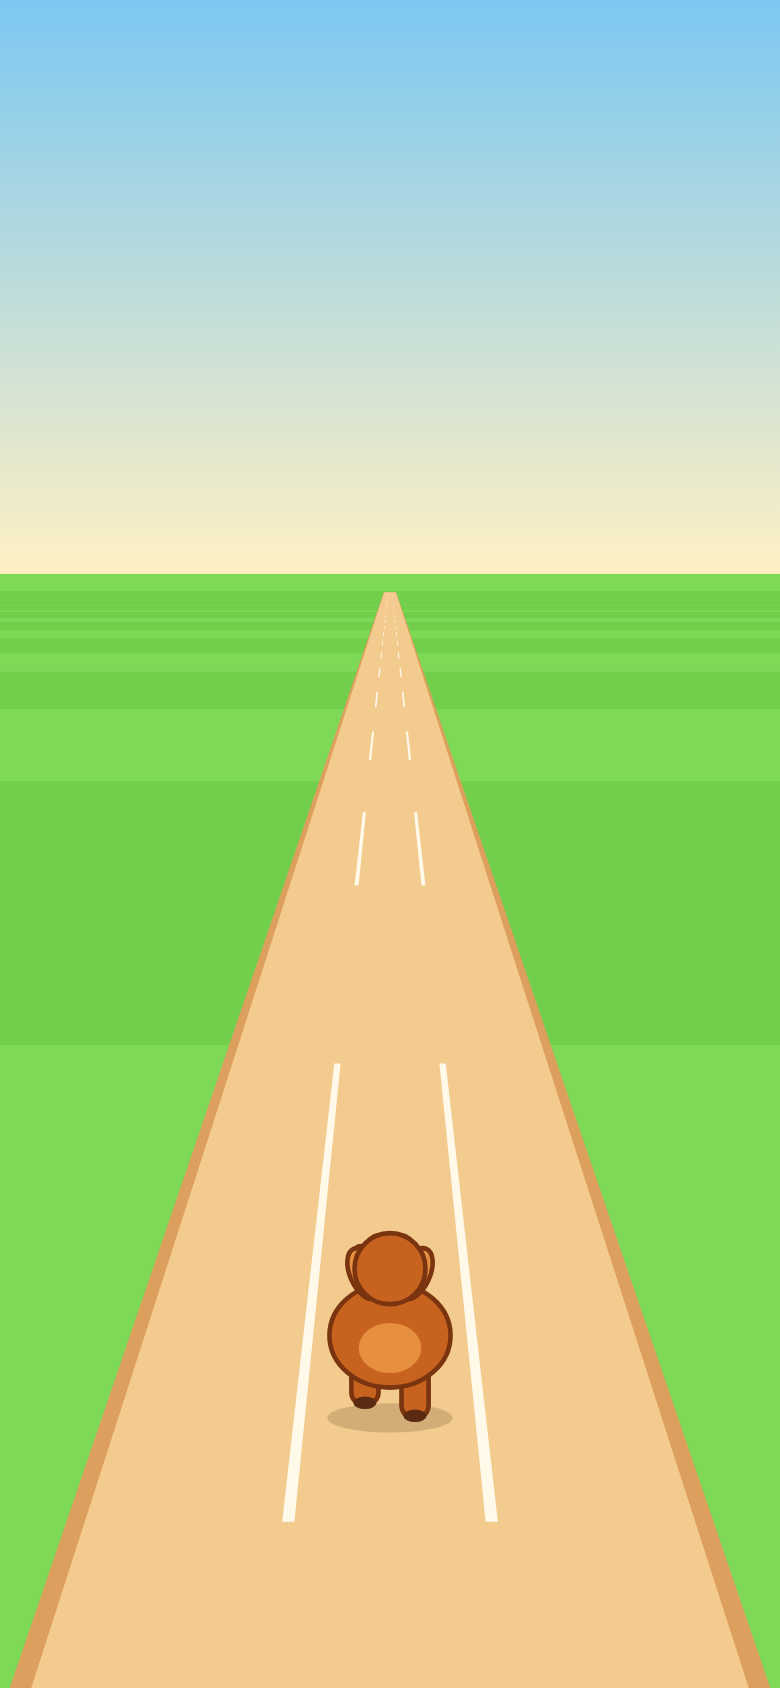
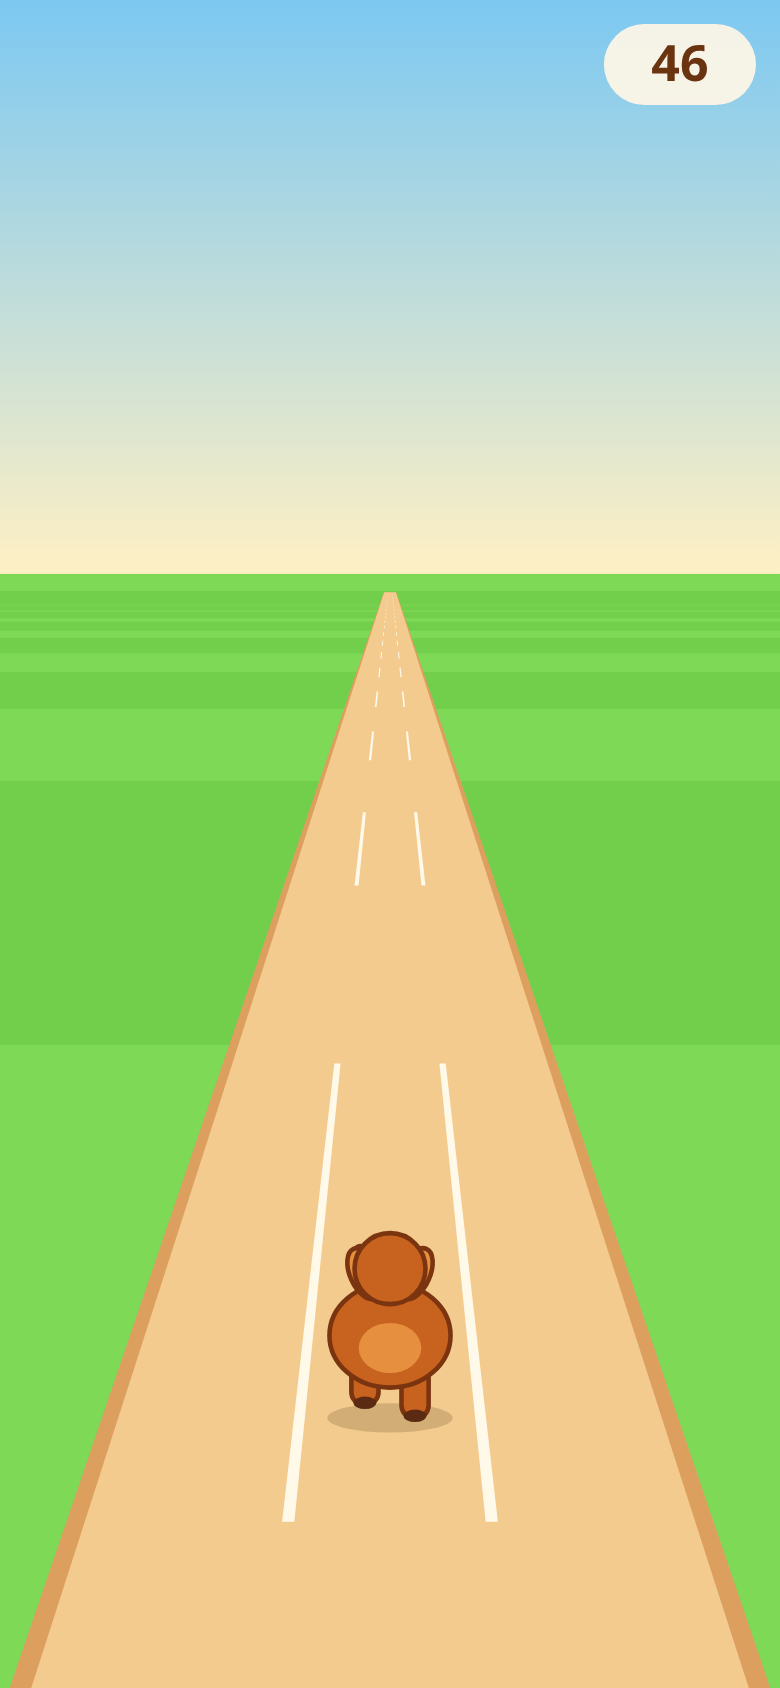
feat: add live score, Title and Game Over screens with instant retry
Canvas-drawn screens: Title (tap to start), score pill in the top-right
corner clear of the notch, Game Over with score, session best, new-best
badge and a large Try Again button. Taps are ignored for 400 ms after
a crash; retry resets the run without reloading. 81/81 checks pass.

Story: production/epics/caius-run/story-004-score-and-screens.md
Design: design/game-brief.md

Claude-Session: https://claude.ai/code/session_018R8R6gKewFaV8M9dz1TTco

Changed region(s): [[0.7692, 0.0, 0.9846, 0.0616]]

diff --git a/src/index.html b/src/index.html
@@ -19,6 +19,10 @@
     -webkit-touch-callout: none;
     -webkit-tap-highlight-color: transparent;
   }
+  #safe {
+    position: fixed; visibility: hidden; pointer-events: none;
+    padding: env(safe-area-inset-top) env(safe-area-inset-right) env(safe-area-inset-bottom) env(safe-area-inset-left);
+  }
   canvas {
     display: block;
     position: fixed;
@@ -32,6 +36,7 @@
 </head>
 <body>
 <canvas id="game"></canvas>
+<div id="safe" aria-hidden="true"></div>
 <script>
 "use strict";
 
@@ -68,6 +73,22 @@ const CONFIG = {
   spawnAhead: 13,           // rows are generated this far ahead (scale ~0.07, >2 s warning at max speed)
   fadeInDepth: 2,           // obstacles fade in over this much depth after spawning
   despawnBehind: -0.3,      // obstacles are removed once this far behind the camera plane
+  // --- score & screens (story 004) ---
+  scorePerZ: 10,            // points per z unit travelled (~25/s at start)
+  titleScrollFactor: 0.4,   // track drifts at this fraction of base speed behind the title
+  gameOverInputDelayMs: 400, // taps ignored this long after Game Over appears
+  buttonMinHeight: 56,      // px, Try Again button
+  font: 'ui-rounded, "SF Pro Rounded", "Nunito", "Varela Round", "Trebuchet MS", system-ui, sans-serif',
+  text: {
+    title: "Caius Run",
+    tapToStart: "Tap to Start",
+    hint: "Swipe \u2190 \u2192 to dodge \u00b7 tap or swipe \u2191 to jump",
+    gameOver: "Game Over",
+    score: "Score",
+    best: "Best",
+    newBest: "New best!",
+    tryAgain: "Try Again",
+  },
   rowGapTimeStart: 1.4,     // seconds between rows at difficulty 0
   rowGapTimeMin: 0.85,      // seconds between rows at difficulty 1
   rowSafetyMargin: 0.2,     // reaction slack added to the slide/jump time a gap must allow
@@ -117,6 +138,13 @@ const CONFIG = {
     coneStripe: "#fff6e8",
     coneBase: "#d85c1a",
     obstacleOutline: "#5b3415",
+    uiPanel: "#fff6e6",
+    uiText: "#6b3410",
+    uiTextSoft: "#a0643a",
+    uiAccent: "#ff8a3d",
+    uiAccentDark: "#d9682a",
+    uiShade: "rgba(70, 35, 10, 0.28)",
+    uiBadge: "#ffd34d",
   },
 };
 
@@ -128,7 +156,7 @@ const canvas = document.getElementById("game");
 const ctx = canvas.getContext("2d");
 
 /** Layout recomputed on every resize; all drawing reads from here. */
-const view = { w: 0, h: 0, dpr: 1, vx: 0, horizonY: 0, laneW: 0 };
+const view = { w: 0, h: 0, dpr: 1, vx: 0, horizonY: 0, laneW: 0, safe: { top: 0, right: 0, bottom: 0, left: 0 } };
 
 /** Run state. `speed` is the single variable that drives all scrolling. Filled by resetRun(). */
 const state = {};
@@ -139,6 +167,7 @@ const debug = {
   speed: parseFloat(params.get("speed")),
   seed: parseInt(params.get("seed"), 10),
   noSpawn: params.has("nospawn"),
+  play: params.has("play"),       // skip the Title screen
 };
 
 /**
@@ -163,6 +192,7 @@ function resetRun(seed) {
     grounded: true,
     jumpT: 0,                   // seconds since take-off
     jumpY: 0,                   // height above ground, in lane widths
+    treatPoints: 0,             // bonus points from treats (story 005)
     seed: s,
     rng: mulberry32(s),
     spawnEnabled: !debug.noSpawn,
@@ -227,6 +257,12 @@ function resize() {
   view.horizonY = h * CONFIG.horizonRatio;
   const roadHalf = Math.min(w * CONFIG.roadHalfWidthRatio, h * CONFIG.roadHalfWidthMaxRatio);
   view.laneW = (roadHalf * 2) / CONFIG.lanes;
+  // Notch / home-bar insets come from CSS env(); read them through a probe element.
+  const cs = getComputedStyle(document.getElementById("safe"));
+  view.safe = {
+    top: parseFloat(cs.paddingTop) || 0, right: parseFloat(cs.paddingRight) || 0,
+    bottom: parseFloat(cs.paddingBottom) || 0, left: parseFloat(cs.paddingLeft) || 0,
+  };
 }
 
 /** Fill a quad given as [x,y] pairs. */
@@ -545,6 +581,8 @@ function onPointerDown(e) {
   touch.t = e.timeStamp;
   touch.fired = false;
   try { canvas.setPointerCapture(e.pointerId); } catch (_) { /* not fatal */ }
+  // On Title / Game Over the touch belongs to the screen; it must not also become a jump.
+  if (ui.screen !== "playing") { touch.fired = true; screenPointer(e.clientX, e.clientY); }
 }
 
 function onPointerMove(e) {
@@ -568,6 +606,10 @@ function onPointerCancel(e) {
 
 function onKeyDown(e) {
   if (e.repeat) return; // holding a key must not spam moves
+  if (ui.screen !== "playing") {
+    if (e.code === "Space" || e.code === "Enter" || e.code === "NumpadEnter") { e.preventDefault(); screenAction(); }
+    return;
+  }
   switch (e.code) {
     case "ArrowLeft": case "KeyA": moveLane(-1); break;
     case "ArrowRight": case "KeyD": moveLane(1); break;
@@ -838,9 +880,178 @@ function updateCollision() {
 
 
 /* ==========================================================================
-   8. SCREENS — story 004 (title, play HUD, game over)
+   8. SCREENS — Title, Play HUD, Game Over (drawn on the canvas)
    ========================================================================== */
-function drawScreens() { /* story 004 */ }
+
+/** Screen state lives outside `state` so a run reset never wipes the session best. */
+const ui = {
+  screen: "title",      // "title" | "playing" | "gameover"
+  best: 0,              // session best (memory only — no save system)
+  lastScore: 0,
+  newBest: false,
+  gameOverAt: 0,        // performance.now() when Game Over appeared
+  buttons: [],          // hit regions drawn this frame: { id, x, y, w, h }
+};
+
+/** Live score: distance travelled plus treat bonus. */
+function currentScore() {
+  return Math.floor(state.scroll * CONFIG.scorePerZ) + state.treatPoints;
+}
+
+/** Start a fresh run (from Title or Try Again). Never reloads the page. */
+function startRun() {
+  resetRun(debug.seed);
+  touch.id = null;
+  ui.screen = "playing";
+}
+
+/** Crash handler: freeze the score and show Game Over. */
+function showGameOver() {
+  ui.lastScore = currentScore();
+  ui.newBest = ui.lastScore > ui.best;
+  ui.best = Math.max(ui.best, ui.lastScore);
+  ui.gameOverAt = performance.now();
+  ui.screen = "gameover";
+}
+
+/** Keyboard or tap anywhere: the screen's main action. */
+function screenAction() {
+  if (ui.screen === "title") startRun();
+  else if (ui.screen === "gameover" && performance.now() - ui.gameOverAt >= CONFIG.gameOverInputDelayMs) startRun();
+}
+
+/** Pointer on a non-play screen: Title starts on any tap, Game Over only via its button. */
+function screenPointer(x, y) {
+  if (ui.screen === "title") { startRun(); return; }
+  if (ui.screen !== "gameover") return;
+  if (performance.now() - ui.gameOverAt < CONFIG.gameOverInputDelayMs) return;
+  const b = ui.buttons.find((b) => x >= b.x && x <= b.x + b.w && y >= b.y && y <= b.y + b.h);
+  if (b && b.id === "retry") startRun();
+}
+
+function uiFont(px, weight = 800) {
+  return `${weight} ${Math.round(px)}px ${CONFIG.font}`;
+}
+
+/** Text with a soft outline, for titles over the busy track. */
+function outlinedText(str, x, y, px, fill, stroke) {
+  ctx.font = uiFont(px, 900);
+  ctx.lineJoin = "round";
+  ctx.lineWidth = Math.max(3, px * 0.16);
+  ctx.strokeStyle = stroke;
+  ctx.strokeText(str, x, y);
+  ctx.fillStyle = fill;
+  ctx.fillText(str, x, y);
+}
+
+/** A rounded pill button with a pressed-look base; registers its hit region. */
+function drawButton(id, label, cx, cy, w, h) {
+  const C = CONFIG.colors;
+  ctx.fillStyle = C.uiAccentDark;
+  roundRectPath(cx - w / 2, cy - h / 2 + h * 0.09, w, h, h / 2);
+  ctx.fill();
+  ctx.fillStyle = C.uiAccent;
+  roundRectPath(cx - w / 2, cy - h / 2, w, h, h / 2);
+  ctx.fill();
+  ctx.fillStyle = "#ffffff";
+  ctx.font = uiFont(h * 0.42, 900);
+  ctx.textAlign = "center";
+  ctx.textBaseline = "middle";
+  ctx.fillText(label, cx, cy + h * 0.02);
+  ui.buttons.push({ id, x: cx - w / 2, y: cy - h / 2, w, h: h * 1.09 });
+}
+
+/** Live score pill in the top-right corner, clear of the notch. */
+function drawHud() {
+  const C = CONFIG.colors;
+  const px = Math.max(18, Math.min(34, view.w * 0.065));
+  const label = String(currentScore());
+  ctx.font = uiFont(px, 900);
+  const w = Math.max(px * 3, ctx.measureText(label).width + px * 1.4);
+  const h = px * 1.6;
+  const x = view.w - view.safe.right - 12 - w;
+  const y = view.safe.top + 12;
+  ctx.fillStyle = "rgba(255, 246, 230, 0.92)";
+  roundRectPath(x, y, w, h, h / 2);
+  ctx.fill();
+  ctx.fillStyle = C.uiText;
+  ctx.textAlign = "center";
+  ctx.textBaseline = "middle";
+  ctx.fillText(label, x + w / 2, y + h / 2 + px * 0.04);
+}
+
+function drawTitle(now) {
+  const C = CONFIG.colors;
+  const cx = view.w / 2;
+  const big = Math.max(40, Math.min(84, view.w * 0.15));
+  ctx.textAlign = "center";
+  ctx.textBaseline = "middle";
+  outlinedText(CONFIG.text.title, cx, view.safe.top + view.h * 0.16, big, C.uiAccent, C.uiPanel);
+  const pulse = 0.75 + 0.25 * Math.sin(now / 280); // gentle pulse, never too faint to read
+  ctx.globalAlpha = pulse;
+  outlinedText(CONFIG.text.tapToStart, cx, view.safe.top + view.h * 0.16 + big * 1.05, big * 0.42, C.uiText, C.uiPanel);
+  ctx.globalAlpha = 1;
+  const hintPx = Math.max(12, Math.min(18, view.w * 0.037));
+  ctx.font = uiFont(hintPx, 700);
+  const hw = Math.min(view.w - 32, ctx.measureText(CONFIG.text.hint).width + hintPx * 2);
+  const hy = view.h - view.safe.bottom - hintPx * 3.2;
+  ctx.fillStyle = "rgba(255, 246, 230, 0.9)";
+  roundRectPath(cx - hw / 2, hy - hintPx, hw, hintPx * 2, hintPx);
+  ctx.fill();
+  ctx.fillStyle = C.uiText;
+  ctx.fillText(CONFIG.text.hint, cx, hy + hintPx * 0.05, view.w - 48);
+}
+
+function drawGameOver(now) {
+  const C = CONFIG.colors;
+  ctx.fillStyle = C.uiShade;
+  ctx.fillRect(0, 0, view.w, view.h);
+  const pw = Math.min(view.w - 32, 360);
+  const unit = pw / 10;
+  const ph = unit * 8.4;
+  const px0 = (view.w - pw) / 2;
+  const py0 = Math.max(view.safe.top + 16, (view.h - ph) / 2 - unit);
+  const cx = view.w / 2;
+  ctx.fillStyle = C.uiPanel;
+  roundRectPath(px0, py0, pw, ph, unit * 0.9);
+  ctx.fill();
+  ctx.textAlign = "center";
+  ctx.textBaseline = "middle";
+  ctx.fillStyle = C.uiText;
+  ctx.font = uiFont(unit * 1.05, 900);
+  ctx.fillText(CONFIG.text.gameOver, cx, py0 + unit * 1.2);
+  ctx.fillStyle = C.uiTextSoft;
+  ctx.font = uiFont(unit * 0.55, 800);
+  ctx.fillText(CONFIG.text.score.toUpperCase(), cx, py0 + unit * 2.35);
+  ctx.fillStyle = C.uiText;
+  ctx.font = uiFont(unit * 1.7, 900);
+  ctx.fillText(String(ui.lastScore), cx, py0 + unit * 3.45);
+  ctx.fillStyle = C.uiTextSoft;
+  ctx.font = uiFont(unit * 0.55, 800);
+  ctx.fillText(`${CONFIG.text.best.toUpperCase()}  ${ui.best}`, cx, py0 + unit * 4.6);
+  if (ui.newBest) {
+    const bw = unit * 3.6, bh = unit * 0.8, by = py0 + unit * 5.45;
+    ctx.fillStyle = C.uiBadge;
+    roundRectPath(cx - bw / 2, by - bh / 2, bw, bh, bh / 2);
+    ctx.fill();
+    ctx.fillStyle = C.uiText;
+    ctx.font = uiFont(unit * 0.45, 900);
+    ctx.fillText(CONFIG.text.newBest, cx, by + unit * 0.02);
+  }
+  const ready = now - ui.gameOverAt >= CONFIG.gameOverInputDelayMs;
+  ctx.globalAlpha = ready ? 1 : 0.55;
+  const bh = Math.max(CONFIG.buttonMinHeight, unit * 1.5);
+  drawButton("retry", CONFIG.text.tryAgain, cx, py0 + ph - bh * 0.5 - unit * 0.7, pw - unit * 1.6, bh);
+  ctx.globalAlpha = 1;
+}
+
+/** Draw the overlay for the current screen. */
+function drawScreens(now = performance.now()) {
+  ui.buttons = [];
+  if (ui.screen === "title") drawTitle(now);
+  else if (ui.screen === "playing") drawHud();
+  else if (ui.screen === "gameover") drawGameOver(now);
+}
 
 
 /* ==========================================================================
@@ -850,6 +1061,11 @@ let lastTime = null;
 
 /** Advance the simulation by dt seconds. */
 function update(dt) {
+  if (ui.screen === "title") { // track drifts behind the title, no obstacles
+    state.scroll += CONFIG.baseSpeed * CONFIG.titleScrollFactor * dt;
+    state.runPhase += dt * CONFIG.strideRate * 0.6;
+    return;
+  }
   if (!state.running) return;
   state.time += dt;
   if (!Number.isFinite(debug.speed)) state.speed = speedAt(state.time);
@@ -866,7 +1082,7 @@ function frame(now) {
   lastTime = now;
   update(dt);
   render();
-  drawScreens();
+  drawScreens(now);
   requestAnimationFrame(frame);
 }
 
@@ -877,10 +1093,12 @@ document.addEventListener("visibilitychange", () => { lastTime = null; });
    10. BOOT
    ========================================================================== */
 resetRun(debug.seed);
+ui.screen = debug.play ? "playing" : "title";
+events.onCrash.push(showGameOver);
 // Exposed for debugging and tools/qa checks.
 window.CaiusRun = {
   CONFIG, state, view, events, project, classifyGesture, moveLane, jump, jumpGravity, jumpAirDistance,
-  resetRun, generateRow, isRowFair, passableLanes, fairnessSelfTest, hitTest, canClearLow, speedAt,
+  ui, startRun, currentScore, resetRun, generateRow, isRowFair, passableLanes, fairnessSelfTest, hitTest, canClearLow, speedAt,
   rowGapTime, minSafeGapTime, mulberry32,
 };
 

diff --git a/production/epics/caius-run/story-004-score-and-screens.md b/production/epics/caius-run/story-004-score-and-screens.md
@@ -1,12 +1,12 @@
 # Story 004: Score, Title, Play and Game Over screens
 
 > **Epic**: Caius Run
-> **Status**: Ready
+> **Status**: Complete
 > **Layer**: Presentation
 > **Type**: UI
 > **Estimate**: M
 > **Manifest Version**: N/A (minimal — no control manifest)
-> **Last Updated**: [set by /dev-story when implementation begins]
+> **Last Updated**: 2026-10-05
 
 ## Context
 
@@ -28,14 +28,14 @@
 
 *From `design/game-brief.md` (the **Player goal & fail state** field + the MVP feature this story implements), scoped to this story:*
 
-- [ ] Title screen shows the game name "Caius Run", Caius (placeholder until story 006) and "Tap to Start"; a tap starts the run.
-- [ ] Play screen shows a live distance score in a top corner; it updates every frame and respects the device safe-area (notch).
-- [ ] On crash the run stops and the Game Over screen shows the final score, the session best, and a big "Try Again" button.
-- [ ] Session best updates when beaten and persists until the page is closed (memory only; no save system).
-- [ ] "Try Again" restarts instantly (no page reload, under 1 s), resets all run state, and goes straight into play, skipping the Title.
-- [ ] Try Again is large (at least ~56 px tall), rounded, thumb-reachable, works by tap and by Enter/Space.
-- [ ] Taps in the first ~400 ms of Game Over are ignored so a late jump-tap cannot skip the score.
-- [ ] The loop start → play → die → retry → die repeats many times with no leaks (obstacles cleared, listeners not duplicated, no slowdown).
+- [x] Title screen shows the game name "Caius Run", Caius (placeholder until story 006) and "Tap to Start"; a tap starts the run.
+- [x] Play screen shows a live distance score in a top corner; it updates every frame and respects the device safe-area (notch).
+- [x] On crash the run stops and the Game Over screen shows the final score, the session best, and a big "Try Again" button.
+- [x] Session best updates when beaten and persists until the page is closed (memory only; no save system).
+- [x] "Try Again" restarts instantly (no page reload, under 1 s), resets all run state, and goes straight into play, skipping the Title.
+- [x] Try Again is large (at least ~56 px tall), rounded, thumb-reachable, works by tap and by Enter/Space.
+- [x] Taps in the first ~400 ms of Game Over are ignored so a late jump-tap cannot skip the score.
+- [x] The loop start → play → die → retry → die repeats many times with no leaks (obstacles cleared, listeners not duplicated, no slowdown).
 
 ---
 
@@ -79,3 +79,12 @@
 
 - Depends on: Story 003
 - Unlocks: Story 005, Story 007
+
+---
+
+## Completion Notes
+**Completed**: 2026-10-05
+**Criteria**: 8/8 passing. Safe-area insets are read from CSS `env()`; headless Chrome reports 0, so notch clearance was not observed on a real device.
+**Deviations**: None. Added `?play` URL switch (skip Title) for the check script.
+**Test Evidence**: UI: screenshots of each screen in `production/qa/evidence/score-and-screens/` (Title, Play HUD, Game Over with and without new best, Title and Game Over at 360x640). `node tools/qa/cdp-check.mjs score-and-screens` 17/17 PASS, including 12 start-die-retry loops with no duplicated listeners.
+**Code Review**: Skipped — solo mode
